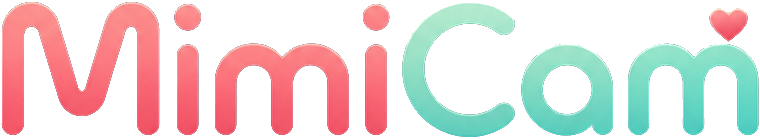
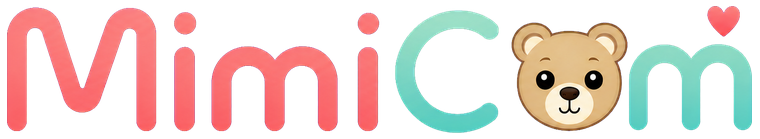
feat: refresh MimiCam bear branding

Changed region(s): [[0.0, 0.0, 0.9987, 1.0], [0.9079, 0.0288, 0.9987, 0.2878]]

diff --git a/lib/features/role_selection/role_selection_screen.dart b/lib/features/role_selection/role_selection_screen.dart
@@ -59,31 +59,15 @@ class _BrandHeader extends StatelessWidget {
   @override
   Widget build(BuildContext context) {
     return Center(
-      child: Row(
-        mainAxisSize: MainAxisSize.min,
-        children: [
-          Semantics(
-            label: 'MimiCam',
-            image: true,
-            child: ClipRRect(
-              borderRadius: BorderRadius.circular(18),
-              child: Image.asset(
-                'assets/branding/mimicam_launcher_icon.png',
-                width: 66,
-                height: 66,
-                fit: BoxFit.cover,
-                filterQuality: FilterQuality.high,
-              ),
-            ),
-          ),
-          const SizedBox(width: 12),
-          Image.asset(
-            'assets/branding/mimicam_wordmark.png',
-            width: 178,
-            fit: BoxFit.contain,
-            filterQuality: FilterQuality.high,
-          ),
-        ],
+      child: Semantics(
+        label: 'MimiCam',
+        image: true,
+        child: Image.asset(
+          'assets/branding/mimicam_wordmark.png',
+          width: 258,
+          fit: BoxFit.contain,
+          filterQuality: FilterQuality.high,
+        ),
       ),
     );
   }

diff --git a/test/features/role_selection/role_selection_screen_test.dart b/test/features/role_selection/role_selection_screen_test.dart
@@ -1,4 +1,5 @@
 import 'package:flutter/material.dart';
+import 'package:flutter/services.dart';
 import 'package:flutter_localizations/flutter_localizations.dart';
 import 'package:flutter_test/flutter_test.dart';
 import 'package:mimicam/app/app_role.dart';
@@ -27,6 +28,10 @@ void main() {
     expect(find.byIcon(Icons.child_care), findsOneWidget);
     expect(find.byIcon(Icons.wifi_tethering_rounded), findsOneWidget);
     expect(find.text('Güvenlik notu'), findsOneWidget);
+    final wordmark = await rootBundle.load(
+      'assets/branding/mimicam_wordmark.png',
+    );
+    expect(wordmark.lengthInBytes, greaterThan(0));
     expect(
       tester.getTopLeft(find.text('Güvenlik notu')).dy,
       lessThan(520),

diff --git a/tool/generate_brand_icons.py b/tool/generate_brand_icons.py
@@ -1,0 +1,127 @@
+from __future__ import annotations
+
+from pathlib import Path
+
+from PIL import Image, ImageFilter
+
+
+ROOT = Path(__file__).resolve().parents[1]
+WORDMARK = ROOT / "assets/branding/mimicam_wordmark.png"
+BEAR_ICON = ROOT / "assets/branding/mimicam_bear_icon.png"
+
+IOS_ICON_DIR = ROOT / "ios/Runner/Assets.xcassets/AppIcon.appiconset"
+ANDROID_RES_DIR = ROOT / "android/app/src/main/res"
+
+IOS_SIZES = {
+    "Icon-App-20x20@1x.png": 20,
+    "Icon-App-20x20@2x.png": 40,
+    "Icon-App-20x20@3x.png": 60,
+    "Icon-App-29x29@1x.png": 29,
+    "Icon-App-29x29@2x.png": 58,
+    "Icon-App-29x29@3x.png": 87,
+    "Icon-App-40x40@1x.png": 40,
+    "Icon-App-40x40@2x.png": 80,
+    "Icon-App-40x40@3x.png": 120,
+    "Icon-App-60x60@2x.png": 120,
+    "Icon-App-60x60@3x.png": 180,
+    "Icon-App-76x76@1x.png": 76,
+    "Icon-App-76x76@2x.png": 152,
+    "Icon-App-83.5x83.5@2x.png": 167,
+    "Icon-App-1024x1024@1x.png": 1024,
+}
+
+ANDROID_SIZES = {
+    "mipmap-mdpi": (48, 108),
+    "mipmap-hdpi": (72, 162),
+    "mipmap-xhdpi": (96, 216),
+    "mipmap-xxhdpi": (144, 324),
+    "mipmap-xxxhdpi": (192, 432),
+}
+
+
+def _extract_bear(wordmark: Image.Image) -> Image.Image:
+    if wordmark.size != (760, 139):
+        raise ValueError(f"Unexpected wordmark size: {wordmark.size}")
+
+    # The bear replaces the `a` glyph between the C and final m.
+    bear = wordmark.crop((500, 0, 624, 139))
+    bounds = bear.getchannel("A").getbbox()
+    if bounds is None:
+        raise ValueError("Bear glyph was not found in the wordmark")
+    return bear.crop(bounds)
+
+
+def _brand_background(size: int) -> Image.Image:
+    coral = Image.new("RGB", (size, size), "#FFD9D6")
+    mint = Image.new("RGB", (size, size), "#D7F6EB")
+    cream = Image.new("RGB", (size, size), "#FFF9F2")
+
+    gradient = Image.linear_gradient("L").resize((size, size))
+    gradient = gradient.rotate(-38, resample=Image.Resampling.BICUBIC)
+    color = Image.composite(mint, coral, gradient)
+    return Image.blend(color, cream, 0.46)
+
+
+def _place_bear(canvas: Image.Image, bear: Image.Image, scale: float) -> None:
+    target = int(canvas.width * scale)
+    resize_scale = target / max(bear.size)
+    placed = bear.resize(
+        (
+            round(bear.width * resize_scale),
+            round(bear.height * resize_scale),
+        ),
+        Image.Resampling.LANCZOS,
+    )
+    x = (canvas.width - placed.width) // 2
+    y = (canvas.height - placed.height) // 2
+
+    shadow_alpha = placed.getchannel("A").filter(
+        ImageFilter.GaussianBlur(max(2, canvas.width // 96))
+    )
+    shadow = Image.new("RGBA", canvas.size, (0, 0, 0, 0))
+    shadow_patch = Image.new("RGBA", placed.size, (91, 55, 34, 55))
+    shadow_patch.putalpha(shadow_alpha.point(lambda value: value * 55 // 255))
+    shadow.alpha_composite(shadow_patch, (x, y + max(1, canvas.width // 80)))
+
+    canvas.alpha_composite(shadow)
+    canvas.alpha_composite(placed, (x, y))
+
+
+def _make_master(bear: Image.Image) -> Image.Image:
+    master = _brand_background(1024).convert("RGBA")
+    _place_bear(master, bear, 0.68)
+    return master.convert("RGB")
+
+
+def _make_foreground(bear: Image.Image, size: int) -> Image.Image:
+    foreground = Image.new("RGBA", (size, size), (0, 0, 0, 0))
+    _place_bear(foreground, bear, 0.58)
+    return foreground
+
+
+def main() -> None:
+    wordmark = Image.open(WORDMARK).convert("RGBA")
+    bear = _extract_bear(wordmark)
+    master = _make_master(bear)
+    master.save(BEAR_ICON, optimize=True)
+
+    for filename, size in IOS_SIZES.items():
+        icon = master.resize((size, size), Image.Resampling.LANCZOS)
+        icon.save(IOS_ICON_DIR / filename, optimize=True)
+
+    for folder, (legacy_size, foreground_size) in ANDROID_SIZES.items():
+        destination = ANDROID_RES_DIR / folder
+        legacy = master.resize(
+            (legacy_size, legacy_size), Image.Resampling.LANCZOS
+        )
+        legacy.save(destination / "ic_launcher.png", optimize=True)
+        _make_foreground(bear, foreground_size).save(
+            destination / "ic_launcher_foreground.png", optimize=True
+        )
+
+    print(BEAR_ICON)
+    print("Updated Android and iOS launcher icon sets")
+
+
+if __name__ == "__main__":
+    main()

diff --git a/tool/generate_multilingual_screen_report_pdf.py b/tool/generate_multilingual_screen_report_pdf.py
@@ -161,7 +161,7 @@ def add(image: Image.Image):
 
 cover = page(INK)
 draw = ImageDraw.Draw(cover)
-icon_path = ROOT / 'assets/branding/mimicam_launcher_icon.png'
+icon_path = ROOT / 'assets/branding/mimicam_bear_icon.png'
 if icon_path.exists():
     icon = Image.open(icon_path).convert('RGBA')
     icon.thumbnail((230, 230), Image.Resampling.LANCZOS)

diff --git a/README.md b/README.md
@@ -1,7 +1,5 @@
 <div align="center">
-  <img src="assets/branding/mimicam_launcher_icon.png" width="168" alt="MimiCam uygulama ikonu" />
-  <br />
-  <img src="assets/branding/mimicam_wordmark.png" width="420" alt="MimiCam" />
+  <img src="assets/branding/mimicam_wordmark.png" width="520" alt="MimiCam" />
 
   <h3>İki telefon. Tek Wi-Fi. Güvenli ve yerel bebek takibi.</h3>
 
@@ -228,6 +226,6 @@ flutter run \
 ---
 
 <div align="center">
-  <img src="assets/branding/mimicam_launcher_icon.png" width="82" alt="MimiCam" />
+  <img src="assets/branding/mimicam_bear_icon.png" width="82" alt="MimiCam ayı ikonu" />
   <p><strong>MimiCam</strong><br />Yakında. Yerel. Senin kontrolünde.</p>
 </div>

diff --git a/ARCHITECT.md b/ARCHITECT.md
@@ -116,7 +116,7 @@ Runtime acisindan onemli dependency'ler:
 
 Flutter assets:
 
-- `assets/branding/mimicam_launcher_icon.png`
+- `assets/branding/mimicam_bear_icon.png`
 - `assets/branding/mimicam_wordmark.png`
 - `assets/test_dashboard/index.html`
 - `assets/test_dashboard/dashboard.js`
